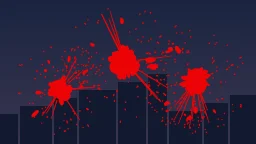
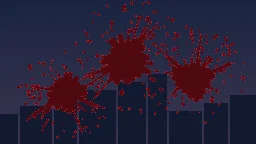
演出APNGメーカー v0.36: 血のしずく（1〜3滴）を v0.34 の丸いかたまり・暗い深紅と v0.35 の細い筋・しぶきの組み合わせに
Claude-Session: https://claude.ai/code/session_01Jjy5FsQHvCgUVAU7SF1bny

diff --git a/tools/effect-apng-maker/library/horror/blood/drop-1/render.js b/tools/effect-apng-maker/library/horror/blood/drop-1/render.js
@@ -1,14 +1,14 @@
 // 血のしずくが見ている人のほうへ飛んできて、画面にぶつかって弾ける（1回再生）
-// 形と色の見本は TK の「血しぶき」の画像（2026-11-18）：
-//   ・色はあざやかな赤一色（つやや縁どりなし）
-//   ・中心はいくつものかたまりが重なった、角ばったでこぼこの形。ふちに短いぎざぎざ
-//   ・ある向きへ髪の毛のように細い筋が長く飛ぶ。少し離れたところに小さなかたまり、まわりに細かいしぶきがたくさん
+// v0.34 と v0.35 を合わせた形（TK 2026-11-18）：
+//   ・中心のかたまりと、ふちの丸いこぶ・しずくの付いた腕は v0.34（丸みのある形）
+//   ・色も v0.34 の暗い深紅＋明るい縁どり（blood-liquid.js の style 'rim'）
+//   ・v0.35 の見本（血しぶきの画像）から：1〜2 方向へかたよって飛ぶ髪の毛のような細い筋、離れた小さなかたまり、細かいしぶき
 // 地面に落ちたしずくとして描くので、そのあと下へ伝う筋は作らない（TK 2026-11-18）
 // 1滴・2滴・3滴のカードで同じ描き方を使う（count だけちがう）
 import { rng, clamp, smooth } from '../../../kit.js';
+import { liquidState, drawLiquid } from '../../../blood-liquid.js';
 
 const TAU = Math.PI * 2;
-const RED = 'rgb(236, 4, 6)';
 const easeOut = (x, p = 3) => 1 - Math.pow(1 - clamp(x), p);
 
 // 何滴目がどこに、いつ当たるか（画面に対する位置）
@@ -21,41 +21,43 @@ const FLY = 0.12;   // 飛んでくる時間（全体に対して）
 
 export function makeDrops(P, S, count) {
   const r = rng(S.seed * 13 + 5 + count);
+  const r2 = rng(S.seed * 31 + 7 + count);   // v0.35 から足した細い筋・しぶき用（v0.34 の形を変えないように別の乱数）
   const drops = LAYOUT[count].map(L => {
-    // 中心のかたまり：重なった楕円＋でこぼこのふち
-    const blobs = [];
-    for (let i = 0; i < 8; i++) {
-      const a = r() * TAU, d = 0.38 * Math.sqrt(r());
-      blobs.push({ x: Math.cos(a) * d, y: Math.sin(a) * d, rx: 0.32 + 0.3 * r(), ry: 0.26 + 0.26 * r(), rot: r() * Math.PI });
+    // --- v0.34 の形：中心のかたまり（ふちがでこぼこ）と、しずくの付いた腕 ---
+    const arms = [];
+    const na = 14 + Math.floor(r() * 7);
+    for (let i = 0; i < na; i++) {
+      const a = (i + 0.5 * r()) / na * TAU;
+      const long = r() < 0.3;
+      arms.push({ a, long, len: long ? 0.9 + 0.7 * r() : 0.2 + 0.45 * r(), w: long ? 0.07 + 0.05 * r() : 0.14 + 0.12 * r(), tip: long ? 0.08 + 0.05 * r() : 0.13 + 0.09 * r(), gap: long && r() < 0.5 ? 0.15 + 0.25 * r() : 0 });
     }
+    const sats = [];
+    for (let i = 0; i < 10 + Math.floor(r() * 8); i++) sats.push({ a: r() * TAU, d: 1.7 + 1.6 * r(), rr: 0.03 + 0.06 * r() });
     const edge = [];
-    for (let i = 0; i < 7; i++) edge.push({ k: 2 + Math.floor(r() * 9), amp: 0.04 + 0.07 * r(), ph: r() * TAU });
-    // ふちの短いぎざぎざ
-    const fringe = [];
-    for (let i = 0; i < 26; i++) fringe.push({ a: r() * TAU, len: 0.08 + 0.3 * Math.pow(r(), 1.5), w: 0.05 + 0.1 * r(), spike: r() < 0.25 });
-    // 髪の毛のような細い筋：飛ぶ向きを 1〜2 方向にかたよらせる
-    const axes = [r() * TAU];
-    if (r() < 0.7) axes.push(axes[0] + Math.PI * (0.6 + 0.8 * r()));
+    for (let i = 0; i < 4; i++) edge.push({ k: 3 + Math.floor(r() * 5), amp: 0.03 + 0.05 * r(), ph: r() * TAU });
+    for (let i = 0; i < 2 + Math.floor(r() * 2); i++) for (let j = 0; j < 6; j++) r();   // v0.34 の筋（いまは描かない）のぶんの乱数
+    const jx = (r() - 0.5) * 0.03, jy = (r() - 0.5) * 0.03;
+    // --- v0.35 の見本から：かたよって飛ぶ細い筋・離れた小さなかたまり・細かいしぶき ---
+    const axes = [r2() * TAU];
+    if (r2() < 0.7) axes.push(axes[0] + Math.PI * (0.6 + 0.8 * r2()));
     const needles = [];
     for (let i = 0; i < 9; i++) {
       const ax = axes[i % axes.length];
-      needles.push({ a: ax + (r() - 0.5) * 1.3, from: 0.55 + 0.2 * r(), len: 0.9 + 1.5 * Math.pow(r(), 0.8), w: 0.018 + 0.025 * r(), dot: r() < 0.5 ? 0.012 + 0.02 * r() : 0 });
+      needles.push({ a: ax + (r2() - 0.5) * 1.3, from: 0.7 + 0.2 * r2(), len: 0.9 + 1.4 * Math.pow(r2(), 0.8), w: 0.022 + 0.022 * r2(), dot: r2() < 0.5 ? 0.02 + 0.02 * r2() : 0 });
     }
-    // 少し離れた小さなかたまり（細長いものもある）
     const chunks = [];
-    for (let i = 0; i < 8; i++) {
-      const a = r() < 0.5 ? axes[0] + (r() - 0.5) * 1.6 : r() * TAU;
-      chunks.push({ a, d: 1.25 + 1.3 * r(), rr: 0.05 + 0.09 * r(), stretch: 1 + 1.6 * r(), n: 1 + Math.floor(r() * 3), sub: [r(), r(), r(), r()] });
+    for (let i = 0; i < 7; i++) {
+      const a = r2() < 0.5 ? axes[0] + (r2() - 0.5) * 1.6 : r2() * TAU;
+      chunks.push({ a, d: 1.4 + 1.2 * r2(), rr: 0.05 + 0.07 * r2(), stretch: 1 + 1.4 * r2() });
     }
-    // 細かいしぶき
     const specks = [];
-    for (let i = 0; i < 110; i++) {
-      const a = r() < 0.4 ? axes[0] + (r() - 0.5) * 1.4 : r() * TAU;
-      specks.push({ a, d: 1.0 + 2.3 * Math.pow(r(), 0.8), rr: 0.006 + 0.03 * Math.pow(r(), 2.4), stretch: 1 + 1.4 * r() * r() });
+    for (let i = 0; i < 70; i++) {
+      const a = r2() < 0.4 ? axes[0] + (r2() - 0.5) * 1.4 : r2() * TAU;
+      specks.push({ a, d: 1.2 + 2.1 * Math.pow(r2(), 0.8), rr: 0.012 + 0.025 * Math.pow(r2(), 2), stretch: 1 + 1.2 * r2() * r2() });
     }
-    return { ...L, jx: (r() - 0.5) * 0.03, jy: (r() - 0.5) * 0.03, rot: r() * TAU, blobs, edge, fringe, needles, chunks, specks };
+    return { ...L, jx, jy, arms, sats, edge, needles, chunks, specks };
   });
-  return { drops };
+  return { drops, liq: liquidState() };
 }
 
 // 中心から向き a・距離 d に、向きにそって細長い楕円を置く
@@ -73,82 +75,68 @@ export function drawDrops(ctx, t, P, st, S) {
   const ox = (c.x - 0.5) * W, oy = (c.y - 0.5) * H;
   const fade = P.stay ? 1 : 1 - smooth((t - 0.84) / 0.16);
   if (fade <= 0) return;
-  const g = ctx;
-  g.save();
-  g.globalAlpha = fade;
-  g.fillStyle = RED;
-  for (const d of st.drops) {
-    const cx = (d.x + d.jx) * W + ox, cy = (d.y + d.jy) * H + oy;
-    const R = 82 * u * size * d.s;            // ぶつかったあとの中心のかたまりの大きさ
-    const p = (t - (d.hit - FLY)) / FLY;
-    if (p <= 0) continue;
-    if (t < d.hit) {
-      // 近づくほど速く大きくなる。少し上から来る
-      const q = Math.pow(p, 2.2);
-      const rr = R * (0.04 + 0.5 * q);
-      g.beginPath(); g.ellipse(cx, cy - (1 - q) * 26 * u, rr, rr * 1.08, 0, 0, TAU); g.fill();
-      continue;
-    }
-    const e = easeOut((t - d.hit) / 0.06, 3);           // かたまりの広がり
-    const e2 = easeOut((t - d.hit) / 0.13, 2.4);        // 遠くへ飛ぶもの
+  drawLiquid(ctx, W, H, st.liq, (g, k) => {
     g.save();
-    g.translate(cx, cy);
-    g.rotate(d.rot);
-    // 中心のかたまり
-    for (const b of d.blobs) {
-      g.beginPath(); g.ellipse(b.x * R * e, b.y * R * e, b.rx * R * e, b.ry * R * e, b.rot, 0, TAU); g.fill();
-    }
-    g.beginPath();
-    for (let i = 0; i <= 90; i++) {
-      const a = i / 90 * TAU;
-      let rad = 0.62;
-      for (const w of d.edge) rad += w.amp * Math.sin(a * w.k + w.ph);
-      const x = Math.cos(a) * R * rad * e, y = Math.sin(a) * R * rad * e;
-      i ? g.lineTo(x, y) : g.moveTo(x, y);
-    }
-    g.closePath(); g.fill();
-    // ふちのぎざぎざ（くさび形）
-    for (const f of d.fringe) {
-      const ca = Math.cos(f.a), sa = Math.sin(f.a);
-      const r0 = R * 0.5 * e, r1 = R * (0.6 + f.len) * e, w = R * f.w * e;
-      if (f.spike) {
-        g.beginPath();
-        g.moveTo(ca * r0 - sa * w * 0.6, sa * r0 + ca * w * 0.6);
-        g.lineTo(ca * r1, sa * r1);
-        g.lineTo(ca * r0 + sa * w * 0.6, sa * r0 - ca * w * 0.6);
-        g.closePath(); g.fill();
-      } else {
-        // 丸みのあるこぶ（ふちのでこぼこ）
-        radialDot(g, 0, 0, f.a, (r0 + r1) / 2, w * 1.1, 1 + f.len * 3);
+    g.scale(k, k);
+    for (const d of st.drops) {
+      const cx = (d.x + d.jx) * W + ox, cy = (d.y + d.jy) * H + oy;
+      const R = 82 * u * size * d.s;            // ぶつかったあとの中心のかたまりの半径
+      const p = (t - (d.hit - FLY)) / FLY;
+      if (p <= 0) continue;
+      if (t < d.hit) {
+        const q = Math.pow(p, 2.2);
+        const rr = R * (0.04 + 0.62 * q);
+        g.beginPath(); g.ellipse(cx, cy - (1 - q) * 26 * u, rr, rr * 1.08, 0, 0, TAU); g.fill();
+        continue;
       }
-    }
-    // 髪の毛のような細い筋
-    for (const n of d.needles) {
-      const ca = Math.cos(n.a), sa = Math.sin(n.a);
-      const r0 = R * n.from * e, r1 = R * (n.from + n.len) * e2, w = Math.max(0.6, R * n.w);
+      const e = easeOut((t - d.hit) / 0.06, 3);
+      const e2 = easeOut((t - d.hit) / 0.14, 2.4);
+      // 中心のかたまり（v0.34）
       g.beginPath();
-      g.moveTo(ca * r0 - sa * w, sa * r0 + ca * w);
-      g.lineTo(ca * r1 - sa * 0.35, sa * r1 + ca * 0.35);
-      g.lineTo(ca * r1 + sa * 0.35, sa * r1 - ca * 0.35);
-      g.lineTo(ca * r0 + sa * w, sa * r0 - ca * w);
-      g.closePath(); g.fill();
-      if (n.dot) radialDot(g, 0, 0, n.a, r1 + R * n.dot * 2, R * n.dot, 1.8);
-    }
-    // 離れた小さなかたまり
-    for (const k of d.chunks) {
-      const dd = R * k.d * e2;
-      for (let j = 0; j < k.n; j++) {
-        const off = (k.sub[j] - 0.5) * k.rr * R * 1.6;
-        radialDot(g, 0, 0, k.a + (k.sub[j + 1] - 0.5) * 0.08, dd + off, R * k.rr * (1 - 0.25 * j), k.stretch);
+      for (let i = 0; i <= 48; i++) {
+        const a = i / 48 * TAU;
+        let rad = 1;
+        for (const w of d.edge) rad += w.amp * Math.sin(a * w.k + w.ph);
+        const x = cx + Math.cos(a) * R * rad * e, y = cy + Math.sin(a) * R * rad * e;
+        i ? g.lineTo(x, y) : g.moveTo(x, y);
       }
-    }
-    // 細かいしぶき
-    for (const s of d.specks) {
-      radialDot(g, 0, 0, s.a, R * s.d * e2, Math.max(0.7, R * s.rr), s.stretch);
+      g.closePath(); g.fill();
+      // しずくの付いた腕（v0.34）。長い腕は細い筋に任せて、短く丸いこぶだけにする
+      for (const a of d.arms) {
+        const ca = Math.cos(a.a), sa = Math.sin(a.a);
+        const len = a.long ? 0.35 + 0.2 * a.len : a.len;
+        const L = R * (0.7 + len) * e;
+        const w0 = R * a.w * 1.5, w1 = R * a.w * 0.7;
+        const bx = cx + ca * R * 0.6 * e, by = cy + sa * R * 0.6 * e;
+        const tx = cx + ca * L, ty = cy + sa * L;
+        g.beginPath();
+        g.moveTo(bx - sa * w0, by + ca * w0);
+        g.lineTo(tx - sa * w1, ty + ca * w1);
+        g.lineTo(tx + sa * w1, ty - ca * w1);
+        g.lineTo(bx + sa * w0, by - ca * w0);
+        g.closePath(); g.fill();
+        const tr = R * a.tip * e;
+        g.beginPath(); g.arc(cx + ca * (L + R * a.gap * e2), cy + sa * (L + R * a.gap * e2), tr, 0, TAU); g.fill();
+      }
+      // 髪の毛のような細い筋（v0.35）
+      for (const n of d.needles) {
+        const ca = Math.cos(n.a), sa = Math.sin(n.a);
+        const r0 = R * n.from * e, r1 = R * (n.from + n.len) * e2, w = Math.max(1.2, R * n.w);
+        g.beginPath();
+        g.moveTo(cx + ca * r0 - sa * w, cy + sa * r0 + ca * w);
+        g.lineTo(cx + ca * r1 - sa * 0.9, cy + sa * r1 + ca * 0.9);
+        g.lineTo(cx + ca * r1 + sa * 0.9, cy + sa * r1 - ca * 0.9);
+        g.lineTo(cx + ca * r0 + sa * w, cy + sa * r0 - ca * w);
+        g.closePath(); g.fill();
+        if (n.dot) radialDot(g, cx, cy, n.a, r1 + R * n.dot * 2, R * n.dot, 1.6);
+      }
+      // 離れた小さなかたまり・細かいしぶき（v0.34 のしずく＋v0.35）
+      for (const s of d.sats) radialDot(g, cx, cy, s.a, R * s.d * e2, R * s.rr * Math.min(1, e2 * 1.5), 1);
+      for (const k2 of d.chunks) radialDot(g, cx, cy, k2.a, R * k2.d * e2, R * k2.rr, k2.stretch);
+      for (const s of d.specks) radialDot(g, cx, cy, s.a, R * s.d * e2, Math.max(1.3, R * s.rr), s.stretch);
     }
     g.restore();
-  }
-  g.restore();
+  }, { res: 1, u, edge: 1.6, dome: 8, style: 'rim', alpha: fade });
 }
 
 export default {

diff --git a/tools/effect-apng-maker/index.html b/tools/effect-apng-maker/index.html
@@ -10,14 +10,14 @@
   <title>演出APNGメーカー｜TRPG WEBツール観測所</title>
   <meta name="description" content="場面転換・天候・ホラー演出などのAPNG素材を、ライブラリから選んで調整し、ココフォリアの部屋で使える形で書き出すツールです。" />
   <link rel="icon" href="../../assets/img/kuma_icon.png?v=20260910" type="image/png" />
-  <link rel="stylesheet" href="./css/effect-apng-maker.css?v=20261118-13" />
+  <link rel="stylesheet" href="./css/effect-apng-maker.css?v=20261118-14" />
 </head>
 <body>
   <div class="studio">
     <header class="studio-header">
       <div class="title-block">
         <p class="eyebrow"><a class="portal-link" id="portalLink" href="../../"><span class="portal-long" data-i18n="portalLong">←TRPG WEBツール観測所</span><span class="portal-short" data-i18n="portalShort">← 観測所</span></a></p>
-        <h1><span data-i18n="title">演出APNGメーカー</span> <span class="version-engrave">v0.35 / 2026.11.18</span></h1>
+        <h1><span data-i18n="title">演出APNGメーカー</span> <span class="version-engrave">v0.36 / 2026.11.18</span></h1>
       </div>
       <p class="lead" data-i18n="lead">場面転換・天候・ホラー演出などのAPNG素材を、ライブラリから選んで調整し、ココフォリアの部屋で使える形で書き出します。</p>
       <div class="header-actions">
@@ -184,8 +184,8 @@
   <div class="toast" id="toast" role="status" aria-live="polite" hidden></div>
 
   <!-- APNG / WebP エンコーダー（文字画像APNGメーカーと同じもの。共通化は後の段階で） -->
-  <script src="./js/apng-encoder.js?v=20261118-13"></script>
-  <script src="./js/webp-encoder.js?v=20261118-13"></script>
-  <script type="module" src="./js/main.js?v=20261118-13"></script>
+  <script src="./js/apng-encoder.js?v=20261118-14"></script>
+  <script src="./js/webp-encoder.js?v=20261118-14"></script>
+  <script type="module" src="./js/main.js?v=20261118-14"></script>
 </body>
 </html>

diff --git a/tools/effect-apng-maker/js/main.js b/tools/effect-apng-maker/js/main.js
@@ -3,7 +3,7 @@
  *   ライブラリ（左）→ 選んだアセットを プレビュー（中央）に重ね、調整（右）で設定を変えて書き出す。
  */
 import { I18N } from './i18n.js';
-import { loadManifest, EffectInstance, defaultParams, frameTimes } from './engine.js?v=20261118-13';
+import { loadManifest, EffectInstance, defaultParams, frameTimes } from './engine.js?v=20261118-14';
 import { Stage } from './stage.js';
 
 const C = window.TextApngCodec;

diff --git a/tools/effect-apng-maker/README.md b/tools/effect-apng-maker/README.md
@@ -1,7 +1,7 @@
 # 演出APNGメーカー（Effect APNG Maker / 연출 APNG 메이커）
 
 場面転換・天候・ホラー演出などのAPNG素材を、ライブラリから選んで調整し、ココフォリアの部屋で使える形で書き出すツール。
-v0.35 は限定テスト版（`noindex`、ポータルのカードなし、直リンクのみ）。
+v0.36 は限定テスト版（`noindex`、ポータルのカードなし、直リンクのみ）。
 
 ## 画面
 
